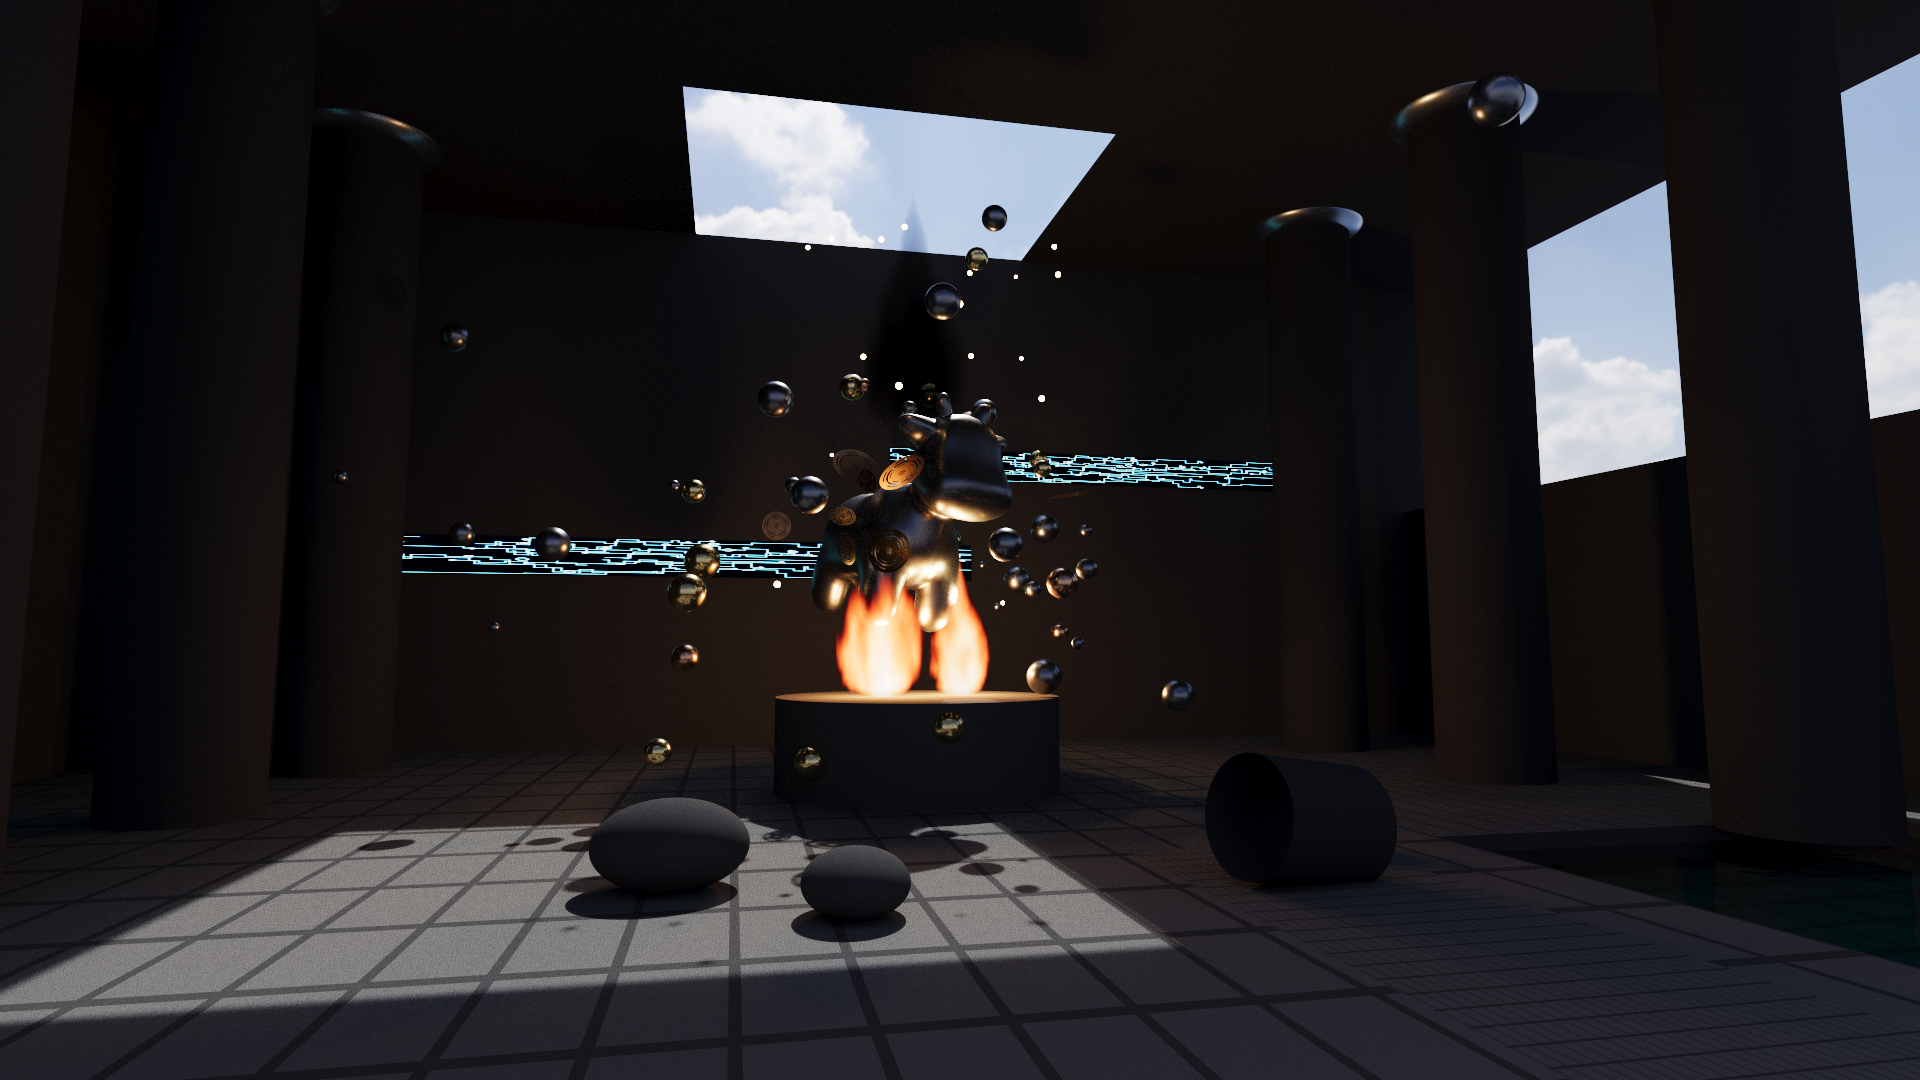
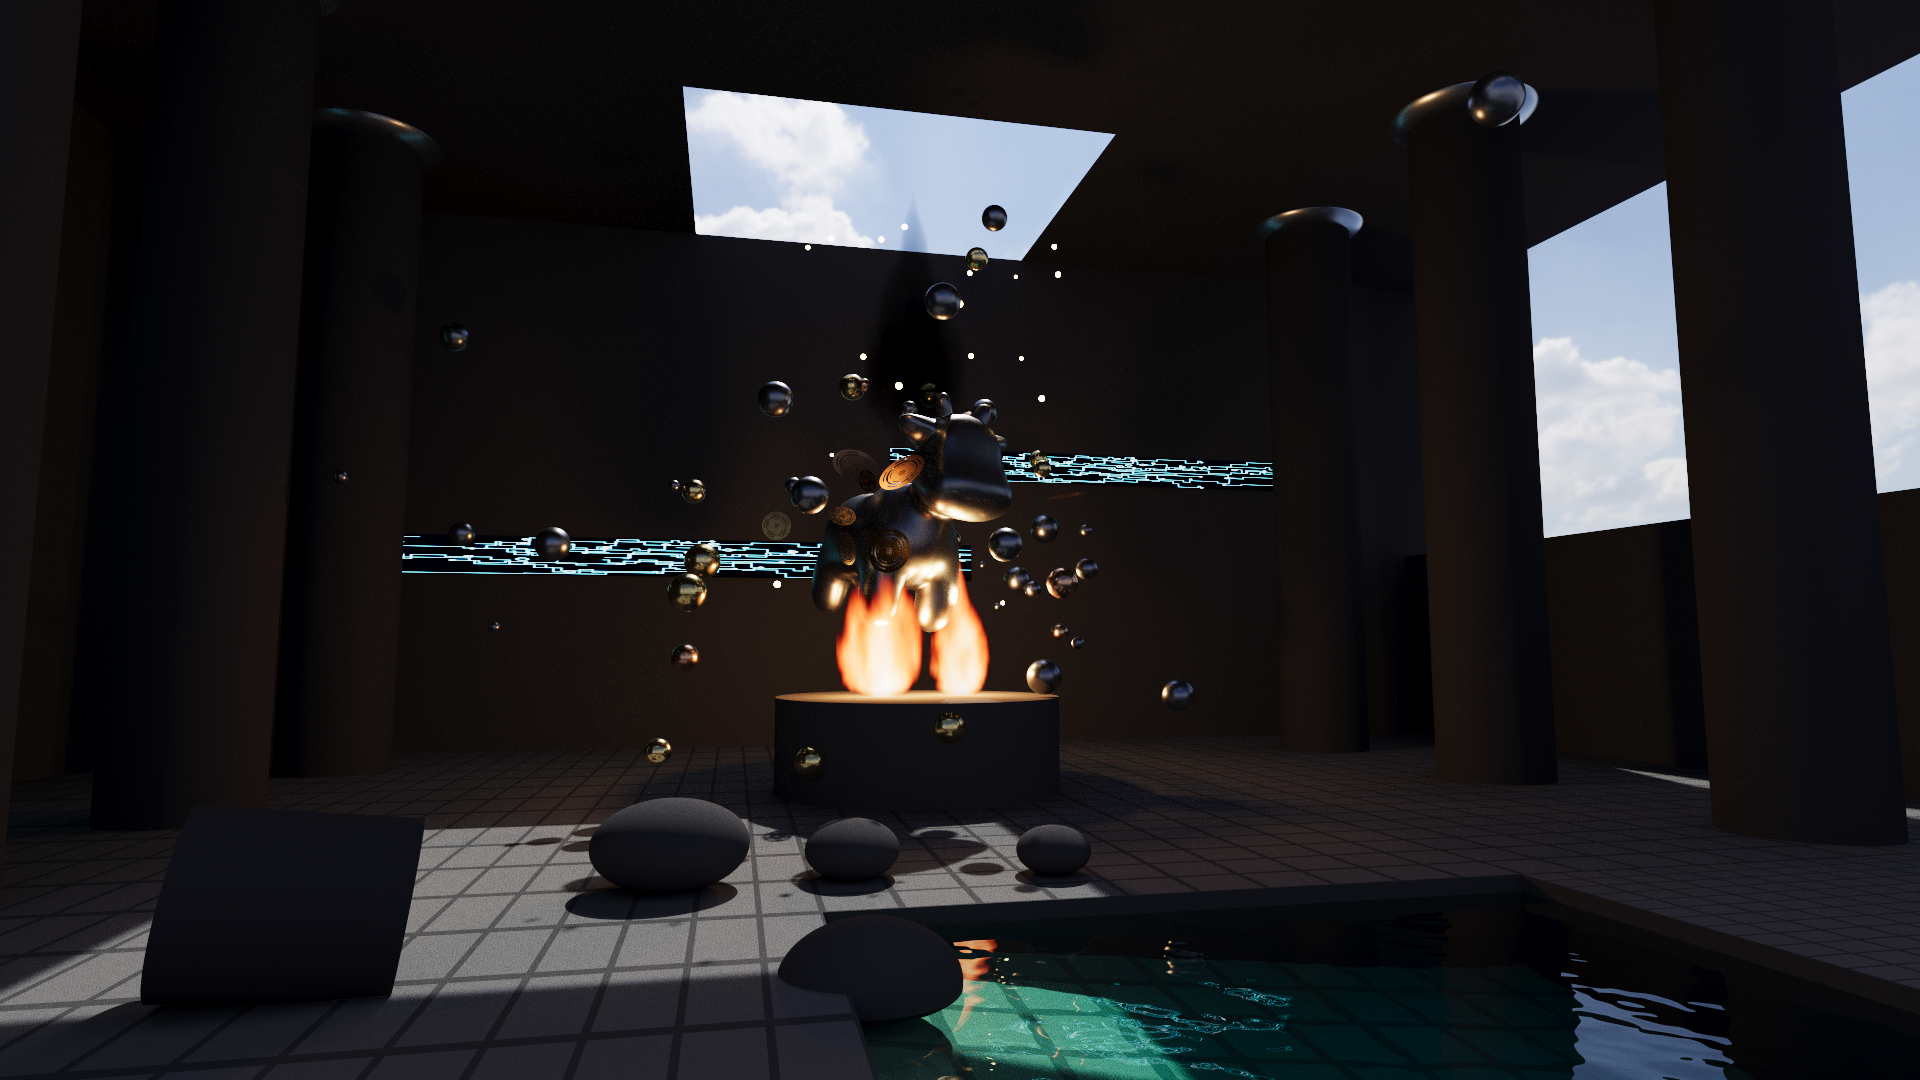
封面修正：下沉水池入画（右前景，倾斜池底做清浅→幽蓝渐变）
用户指出成品里几乎看不到下沉水池——原池口 x[3,9]×z[1,7] 大半在取景框右缘之外。
本次用相机投影反推死区落点重排池区，不动渲染器、不动中心构图：

- 池口移到 x[-1.6,3.6]×z[2.5,8]：画面右下死区的世界坐标实测为 x -1.5..3.6、
  z 2.5..6.5；相机→火焰的镜像线在 x≈-1.4、z≈4.7..5.2 穿过水面，西缘取 -1.6
  恰好让烈焰倒影落进水里
- 池底苔砖板倾斜 18°（西缘 -0.4 清浅见底、东缘 -2.1 坠入幽暗），深浅渐变由
  物理光程给出；苔砖配色提亮一档补偿屋顶遮挡下的纯天光照明
- 拼板地面按新池口重排（rect 无法开洞）；北/南池壁与水面跨度对齐池西缘，
  封掉会漏出环境贴图的 0.1 通底缝
- 占位乱石（柱鼓、小石）移出池区；池西岸添两颗半浸石锚定近岸
- 东低墙 4.4→3.5 放更多天光入池
- 4K/1024spp 重渲替换 docs/cover.png；画廊全量重跑（仅 12 号更新，其余 11
  场景逐字节不变）；基准全量重跑；make check 全绿（6 golden 全 inf、smoke
  决定性 sha 不变）

Changed region(s): [[0.0, 0.7028, 1.0, 1.0], [0.7812, 0.4278, 0.9062, 0.5194], [0.9688, 0.3667, 1.0, 0.4583]]

diff --git a/scripts/gen_oracle.py b/scripts/gen_oracle.py
@@ -44,8 +44,8 @@ scene = {
     "textures": {
         "floorTex": {"type": "grid", "a": [0.16, 0.155, 0.16],
                      "b": [0.08, 0.078, 0.085], "scale": [26, 26], "width": 0.05},
-        "mossTex": {"type": "grid", "a": [0.18, 0.30, 0.16],
-                    "b": [0.10, 0.16, 0.10], "scale": [10, 10], "width": 0.08},
+        "mossTex": {"type": "grid", "a": [0.30, 0.40, 0.24],
+                    "b": [0.15, 0.22, 0.14], "scale": [10, 10], "width": 0.08},
         "gearTex": {"type": "image", "file": "textures/gear.png"},
         "runeTex": {"type": "image", "file": "textures/runes.png", "srgb": True},
     },
@@ -92,23 +92,29 @@ def obj(shape, material, transform, **kw):
 
 
 # ---- temple shell -----------------------------------------------------------
-# Floor: four slabs framing the sunken pool opening at x in [4,10], z in [1,7]
-# (a rect cannot have a hole cut into it). Seams land on grid lines.
+# Floor: slabs framing the sunken pool opening at x in [-1.6,3.6], z in [2.5,8].
+# Screen-space check (camera -2.2,1.7,9.4 / vfov 55): the lower-right dead zone
+# of the frame maps to world x -1.5..3.6, z 2.5..6.5 — the pool must sit THERE
+# to read in the cover, and the mirror line camera->flames crosses the water at
+# x ~ -1.4, z ~ 4.7..5.2, so the west shore at -1.6 catches the fire's
+# reflection. (A rect cannot have a hole cut into it.)
 FLOOR_PHYS = {"physics": {"thickness": 0.5}}
-obj("rect", "floor", [{"scale": [8, 1, 15]}, {"translate": [-4, 0, 0]}], **FLOOR_PHYS)   # west slab (x -12..4)
-obj("rect", "floor", [{"scale": [4.5, 1, 4]}, {"translate": [8.5, 0, -6]}])      # north-east slab (z -10..-2)
-obj("rect", "floor", [{"scale": [4.5, 1, 1.5]}, {"translate": [8.5, 0, -0.5]}])  # strip between pool and NE (z -2..1)
-obj("rect", "floor", [{"scale": [4.5, 1, 4]}, {"translate": [8.5, 0, 11]}])      # south-east slab (z 7..15)
-obj("rect", "floor", [{"scale": [1.0, 1, 3]}, {"translate": [2.0, 0, 4]}])       # thin west rim of the pool (x 1..3)
-obj("rect", "floor", [{"scale": [1.5, 1, 3]}, {"translate": [10.5, 0, 4]}])      # east rim (x 9..12)
+obj("rect", "floor", [{"scale": [5.2, 1, 12.5]}, {"translate": [-6.8, 0, 2.5]}], **FLOOR_PHYS)  # west slab (x -12..-1.6)
+obj("rect", "floor", [{"scale": [6.8, 1, 6.25]}, {"translate": [5.2, 0, -3.75]}], **FLOOR_PHYS)  # north-east slab (z -10..2.5)
+obj("rect", "floor", [{"scale": [6.8, 1, 3.5]}, {"translate": [5.2, 0, 11.5]}])   # south-east slab (z 8..15)
+obj("rect", "floor", [{"scale": [4.2, 1, 2.75]}, {"translate": [7.8, 0, 5.25]}])  # east rim (x 3.6..12)
 
-# Pool: moss-brick bed, dark stone walls, water sheet just below floor level
-obj("rect", "moss", [{"scale": [3, 1, 3]}, {"translate": [6, -1.4, 4]}])
-obj("rect", "stone", [{"scale": [3, 1, 0.7]}, {"rotate_x": 90}, {"translate": [6, -0.7, 1]}])
-obj("rect", "stone", [{"scale": [3, 1, 0.7]}, {"rotate_x": -90}, {"translate": [6, -0.7, 7]}])
-obj("rect", "stone", [{"scale": [0.7, 1, 3]}, {"rotate_z": -90}, {"translate": [3, -0.7, 4]}])
-obj("rect", "stone", [{"scale": [0.7, 1, 3]}, {"rotate_z": 90}, {"translate": [9, -0.7, 4]}])
-obj("rect", "water", [{"scale": [3, 1, 3]}, {"translate": [6, -0.15, 4]}])
+# Pool: tilted moss-brick bed (shallow clear west shore -> deep blue east),
+# dark stone walls, water sheet just below floor level
+obj("rect", "moss", [{"scale": [2.75, 1, 2.8]}, {"rotate_z": -18}, {"translate": [1.0, -1.25, 5.25]}])
+obj("rect", "stone", [{"scale": [2.6, 1, 1.1]}, {"rotate_x": 90}, {"translate": [1.0, -1.1, 2.5]}])
+obj("rect", "stone", [{"scale": [2.6, 1, 1.1]}, {"rotate_x": -90}, {"translate": [1.0, -1.1, 8]}])
+obj("rect", "stone", [{"scale": [1.1, 1, 2.75]}, {"rotate_z": -90}, {"translate": [-1.6, -1.1, 5.25]}])
+obj("rect", "stone", [{"scale": [1.1, 1, 2.75]}, {"rotate_z": 90}, {"translate": [3.6, -1.1, 5.25]}])
+obj("rect", "water", [{"scale": [2.6, 1, 2.75]}, {"translate": [1.0, -0.12, 5.25]}])
+# half-submerged stones on the shallow west shore
+obj("sphere", "stone", [{"scale": [0.5, 0.33, 0.45]}, {"translate": [-1.45, -0.08, 3.7]}])
+obj("sphere", "stone", [{"scale": [0.34, 0.24, 0.3]}, {"translate": [-1.1, -0.2, 5.9]}])
 scene["materials"]["water"] = {"type": "water", "wave_amp": 0.035, "wave_freq": 2.6,
                                "absorb": [0.85, 0.18, 0.08]}
 
@@ -116,7 +122,7 @@ scene["materials"]["water"] = {"type": "water", "wave_amp": 0.035, "wave_freq": 
 obj("rect", "stone", [{"scale": [12, 1, 4.5]}, {"rotate_x": 90}, {"translate": [0, 4.5, -9]}])
 obj("rect", "stone", [{"scale": [5.5, 1, 9]}, {"rotate_z": -90}, {"translate": [-11, 5.5, 0]}])
 # low east wall behind the pool (half-open side)
-obj("rect", "stone", [{"scale": [2.2, 1, 9]}, {"rotate_z": 90}, {"translate": [11, 2.2, 0]}])
+obj("rect", "stone", [{"scale": [1.75, 1, 9]}, {"rotate_z": 90}, {"translate": [11, 1.75, 0]}])
 
 # Roof at y=9. The breach sits in the NORTHERN band (x[-3,3], z[-9,-4]):
 # with the 48-deg sun due north, its beam clears the back wall (top y=9),
@@ -149,9 +155,9 @@ obj("mesh:spot", "cowShell",
 
 # fallen roof rubble in the sun pool (debris from the collapsed dome)
 obj("sphere", "stone", [{"scale": [0.55, 0.32, 0.5]}, {"translate": [-2.6, 0.3, 1.6]}])
-obj("sphere", "stone", [{"scale": [0.35, 0.22, 0.4]}, {"translate": [-1.4, 0.2, 2.6]}])
-obj("cylinder", "pillar", [{"scale": [0.45, 0.5, 0.45]}, {"rotate_z": 82}, {"rotate_y": 15}, {"translate": [1.9, 0.42, 2.3]}])
-obj("sphere", "stone", [{"scale": [0.28, 0.18, 0.3]}, {"translate": [2.7, 0.17, 1.2]}])
+obj("sphere", "stone", [{"scale": [0.35, 0.22, 0.4]}, {"translate": [-1.3, 0.2, 1.5]}])
+obj("cylinder", "pillar", [{"scale": [0.45, 0.5, 0.45]}, {"rotate_z": 82}, {"rotate_y": 15}, {"translate": [-4.3, 0.42, 3.5]}])
+obj("sphere", "stone", [{"scale": [0.28, 0.18, 0.3]}, {"translate": [0.2, 0.17, 1.7]}])
 
 # shell fragments / machine parts: spheres bursting radially from the cow
 frag_mats = ["shard", "shard", "shard", "gold", "copper"]

diff --git a/docs/BENCHMARKS.md b/docs/BENCHMARKS.md
@@ -1,23 +1,23 @@
 # sundog 基准
 
-由 `scripts/run-benchmark.sh` 生成于 2026-07-15T10:52:07+00:00。GPU：NVIDIA GeForce RTX 5090。
+由 `scripts/run-benchmark.sh` 生成于 2026-07-15T11:28:53+00:00。GPU：NVIDIA GeForce RTX 5090。
 
 ## A. 特性层 — 画廊场景（1920x1080 / 64 spp / 不降噪）
 
 | 场景 | 物体 | 三角形 | 灯 | 渲染 (s) | Mrays/s | 峰值显存 (MB) |
 |---|---|---|---|---|---|---|
-| 01-marble-run | 21 | 0 | 1 | 0.049 | 6218 | 690 |
-| 02-cornell-lume | 11 | 0 | 2 | 0.175 | 4783 | 690 |
-| 03-spot-atrium | 4 | 5856 | 2 | 0.057 | 6208 | 694 |
-| 04-parabolica | 6 | 5856 | 3 | 0.052 | 6012 | 694 |
-| 05-spot-swarm | 32770 | 5856 | 2 | 0.107 | 3458 | 708 |
-| 06-spot-cascade | 518 | 5856 | 1 | 0.13 | 4267 | 694 |
-| 07-campfire | 22 | 5856 | 3 | 0.054 | 5561 | 694 |
-| 08-lakeside | 12 | 5856 | 2 | 0.031 | 7189 | 694 |
-| 09-ember-shore | 17 | 5856 | 3 | 0.037 | 6556 | 694 |
-| 10-suncatcher | 14 | 5856 | 0 | 0.078 | 4233 | 856 |
-| 11-glasswork | 8 | 5856 | 0 | 0.096 | 3936 | 856 |
-| 12-molten-oracle | 120 | 5856 | 6 | 0.304 | 2680 | 854 |
+| 01-marble-run | 21 | 0 | 1 | 0.049 | 6222 | 690 |
+| 02-cornell-lume | 11 | 0 | 2 | 0.174 | 4784 | 690 |
+| 03-spot-atrium | 4 | 5856 | 2 | 0.057 | 6203 | 694 |
+| 04-parabolica | 6 | 5856 | 3 | 0.052 | 6009 | 694 |
+| 05-spot-swarm | 32770 | 5856 | 2 | 0.107 | 3461 | 708 |
+| 06-spot-cascade | 518 | 5856 | 1 | 0.13 | 4270 | 694 |
+| 07-campfire | 22 | 5856 | 3 | 0.054 | 5560 | 694 |
+| 08-lakeside | 12 | 5856 | 2 | 0.031 | 7178 | 694 |
+| 09-ember-shore | 17 | 5856 | 3 | 0.037 | 6570 | 694 |
+| 10-suncatcher | 14 | 5856 | 0 | 0.078 | 4234 | 856 |
+| 11-glasswork | 8 | 5856 | 0 | 0.096 | 3941 | 856 |
+| 12-molten-oracle | 120 | 5856 | 6 | 0.3 | 2695 | 854 |
 
 ## B. 降噪层 — 09-ember-shore（1920x1080，参考 4096 spp）
 

diff --git a/docs/GALLERY.md b/docs/GALLERY.md
@@ -97,18 +97,18 @@ Cornell 盒变体：暖色小面积主灯加冷色低强度月光球，四档粗
 
 | 图像 | 分辨率 | spp | 降噪 | 渲染时间 (s) | Mrays/s | 峰值显存 (MB) |
 |---|---|---|---|---|---|---|
-| 01-marble-run | 1920x1080 | 512 | 否 | 0.39 | 6218 | 690 |
-| 02-cornell-lume | 1920x1080 | 512 | 否 | 1.40 | 4775 | 690 |
-| 03-spot-atrium | 1920x1080 | 256 | 否 | 0.23 | 6203 | 694 |
+| 01-marble-run | 1920x1080 | 512 | 否 | 0.39 | 6222 | 690 |
+| 02-cornell-lume | 1920x1080 | 512 | 否 | 1.40 | 4772 | 690 |
+| 03-spot-atrium | 1920x1080 | 256 | 否 | 0.23 | 6204 | 694 |
 | 04-parabolica | 1920x1080 | 512 | 否 | 0.42 | 6007 | 694 |
 | 05-spot-swarm | 1920x1080 | 128 | 否 | 0.21 | 3462 | 708 |
 | 06-spot-cascade | 1920x1080 | 256 | 否 | 0.55 | 4150 | 694 |
 | 06-spot-cascade-settled | 1920x1080 | 256 | 否 | 0.52 | 4259 | 694 |
 | 07-campfire | 1920x1080 | 512 | 否 | 0.44 | 5548 | 694 |
 | 08-lakeside | 1920x1080 | 512 | 否 | 0.25 | 7186 | 694 |
-| 09-ember-shore | 1920x1080 | 512 | 否 | 0.29 | 6592 | 694 |
-| 09-ember-shore-spp16-denoised | 1920x1080 | 16 | 是 | 0.01 | 6588 | 696 |
-| 09-ember-shore-spp16-raw | 1920x1080 | 16 | 否 | 0.01 | 6597 | 694 |
-| 10-suncatcher | 1920x1080 | 512 | 否 | 0.62 | 4227 | 856 |
+| 09-ember-shore | 1920x1080 | 512 | 否 | 0.29 | 6591 | 694 |
+| 09-ember-shore-spp16-denoised | 1920x1080 | 16 | 是 | 0.01 | 6580 | 696 |
+| 09-ember-shore-spp16-raw | 1920x1080 | 16 | 否 | 0.01 | 6614 | 694 |
+| 10-suncatcher | 1920x1080 | 512 | 否 | 0.62 | 4226 | 856 |
 | 11-glasswork | 1920x1080 | 512 | 否 | 0.77 | 3935 | 856 |
-| 12-molten-oracle | 1920x1080 | 1024 | 否 | 4.87 | 2674 | 854 |
+| 12-molten-oracle | 1920x1080 | 1024 | 否 | 4.81 | 2689 | 854 |